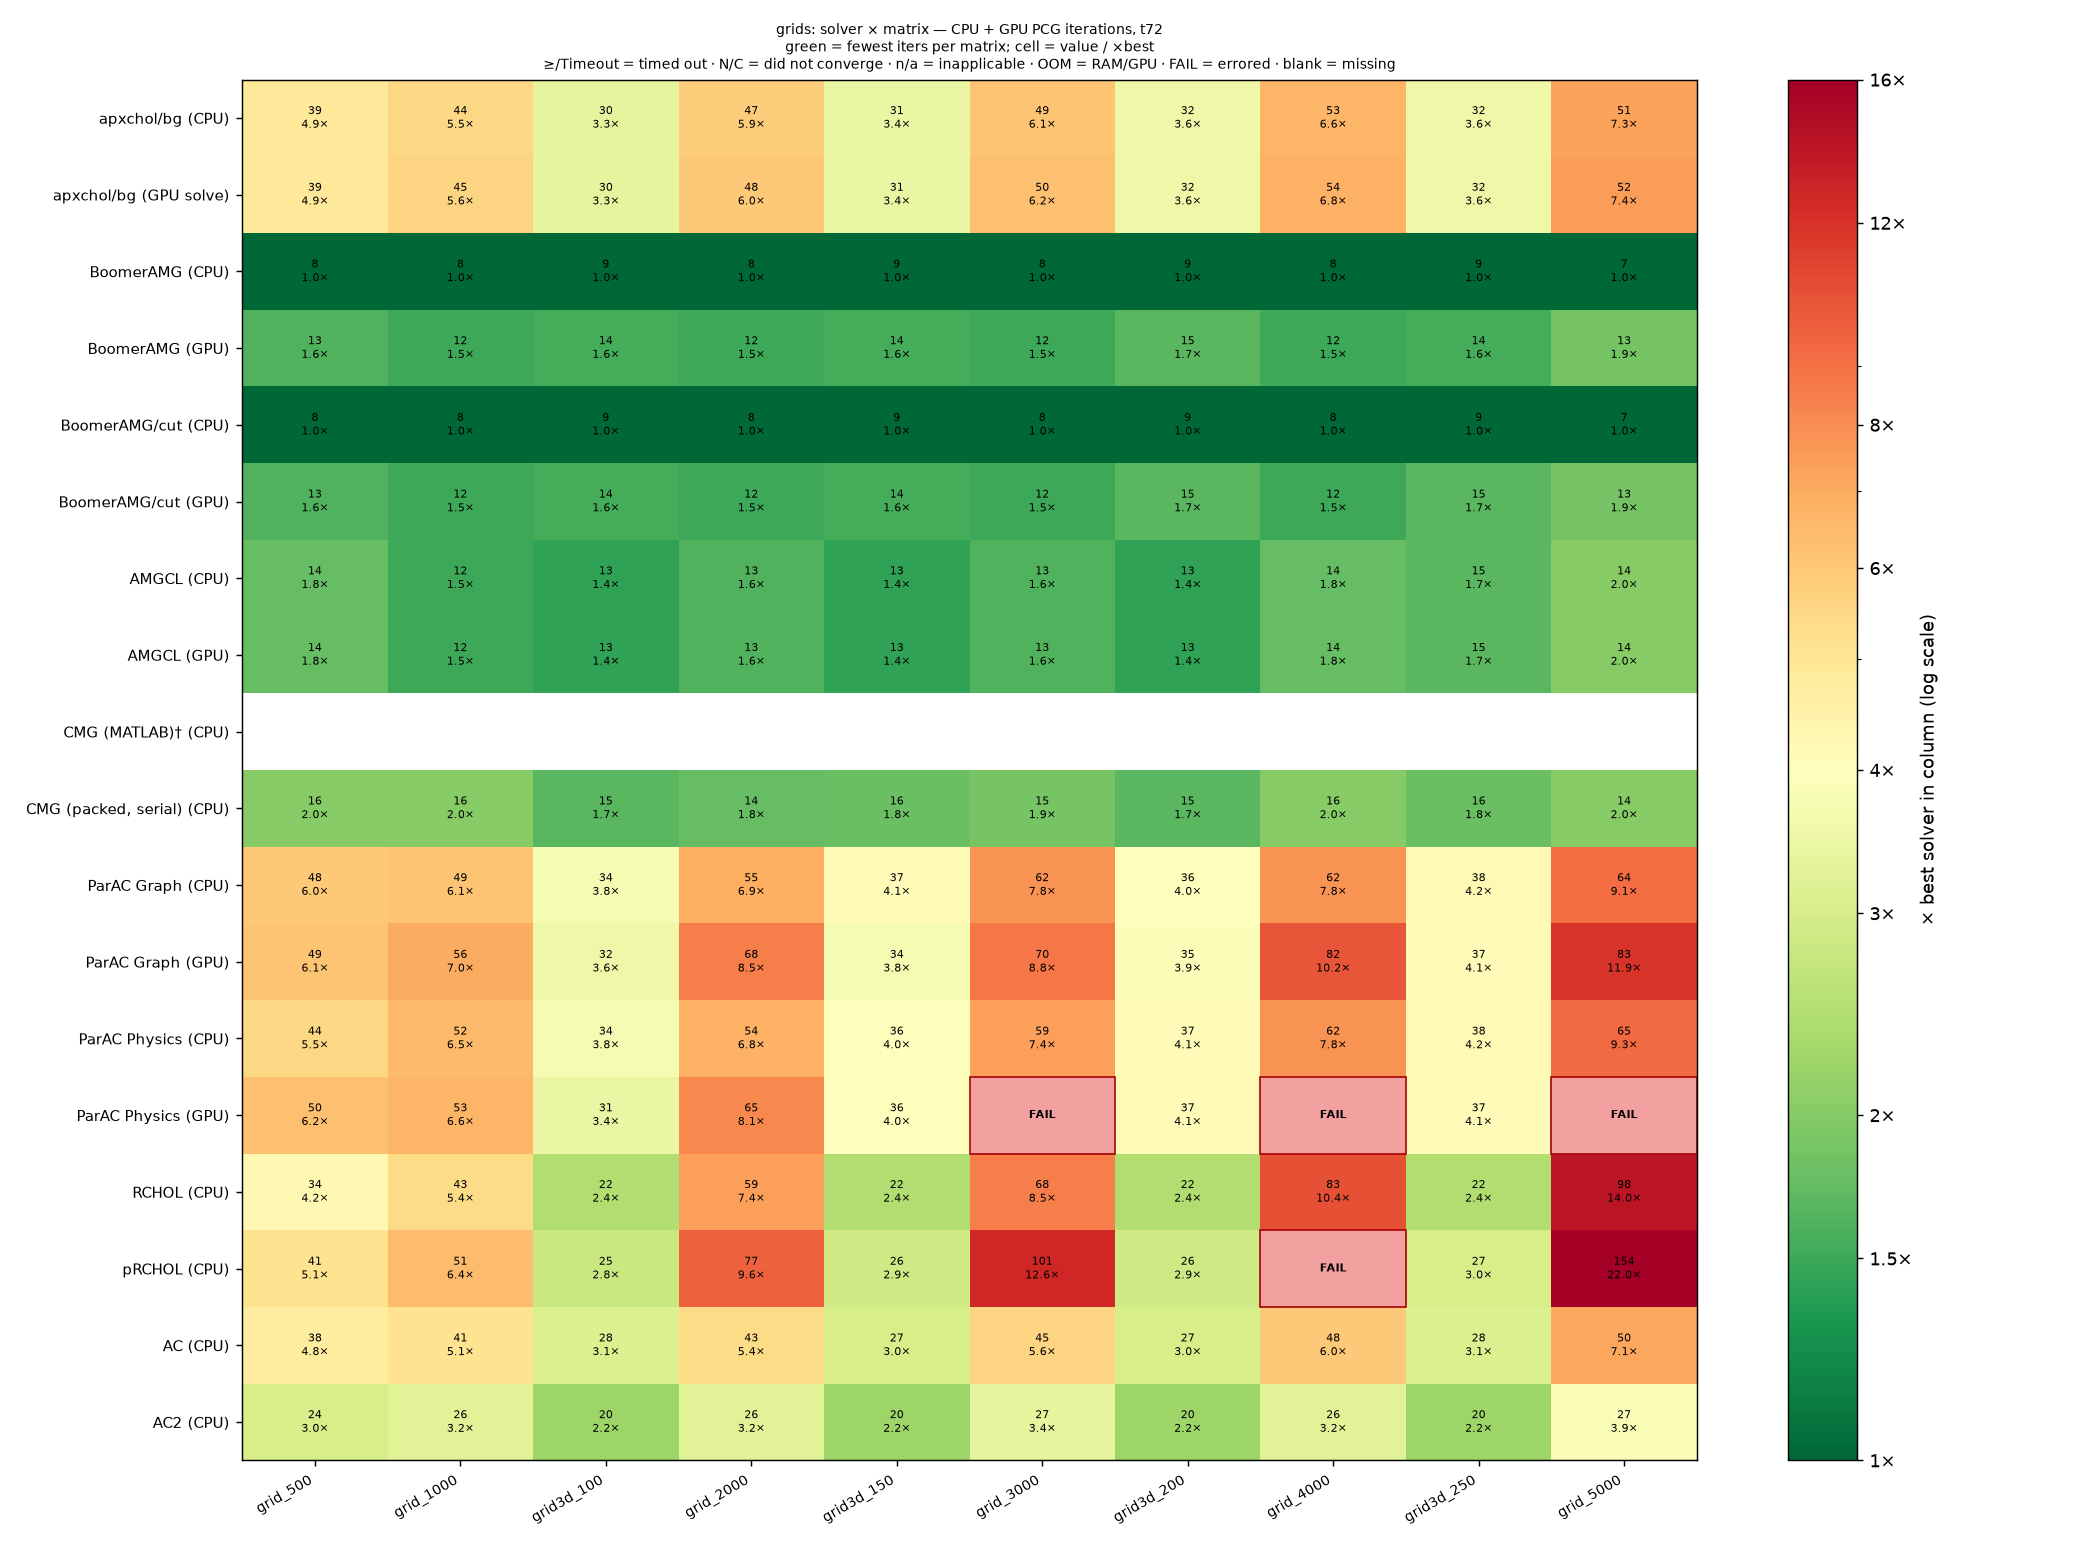
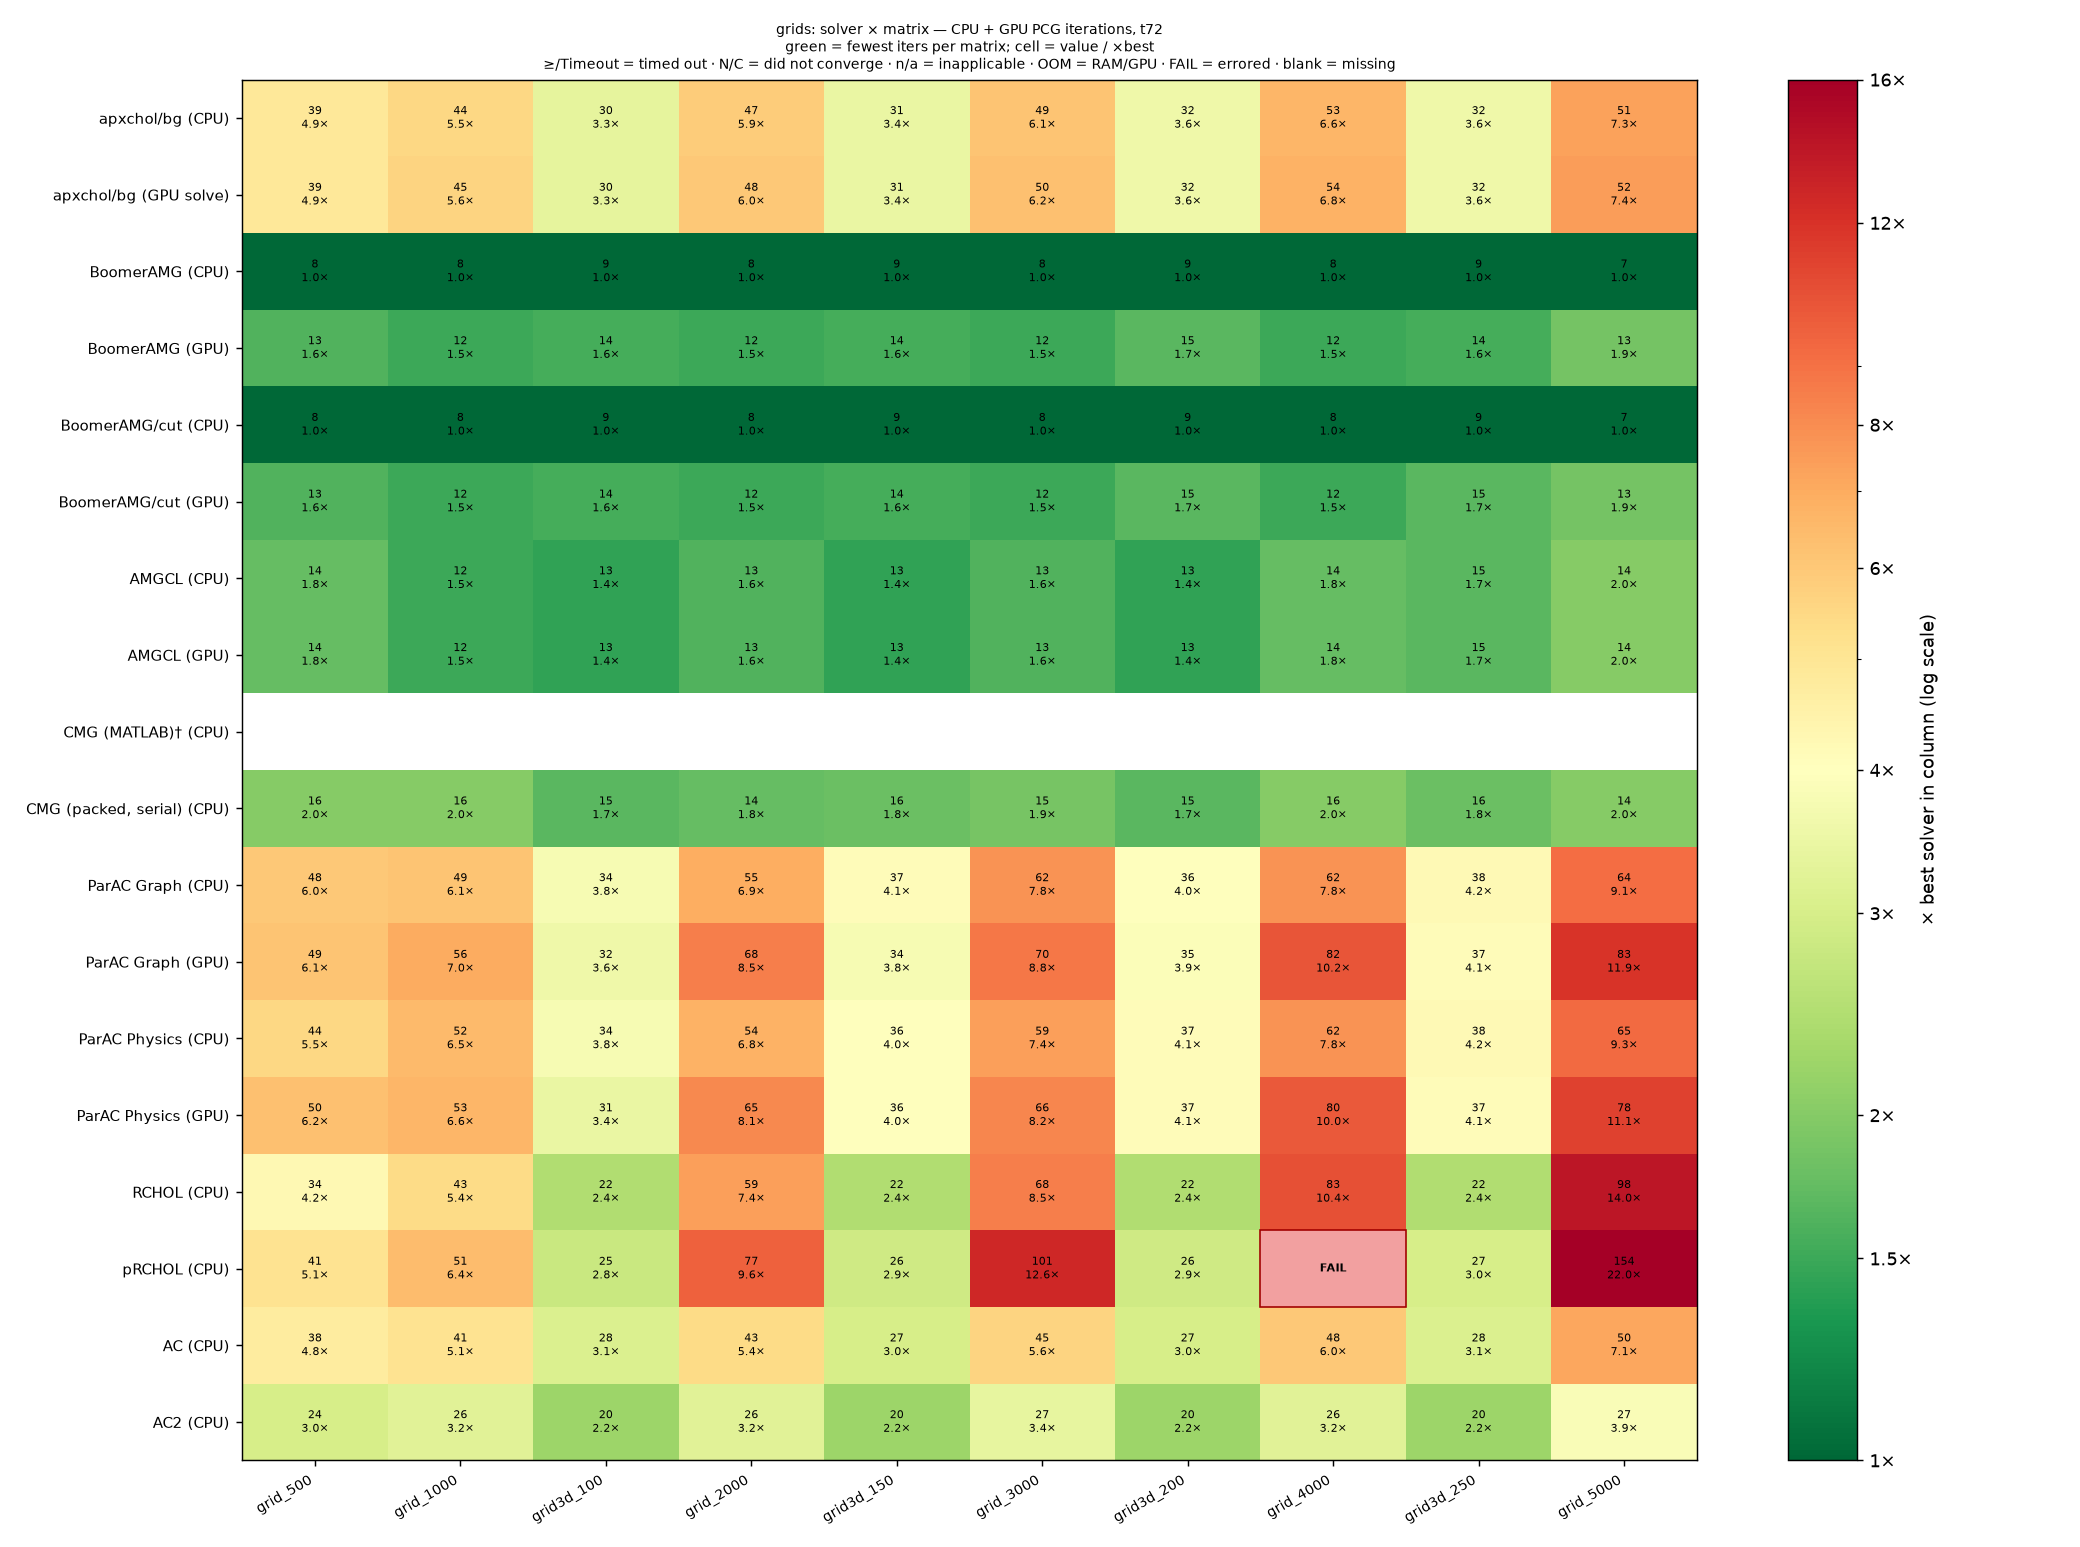
Refresh three repaired ParAC Physics results on Daint

Changed region(s): [[0.7188, 0.6826, 0.8438, 0.7447], [0.5938, 0.6826, 0.6875, 0.7447], [0.4688, 0.6826, 0.5625, 0.7447]]

diff --git a/benchmarks/patches/parac/README.md b/benchmarks/patches/parac/README.md
@@ -5,8 +5,8 @@ Pinned at `44ef39d2f5c2c52aa577f58f005d62f2675cefbc`
 ("Update data README for graph matrix downloads", 2026-04-24).
 
 The benchmark runs ParAC from an out-of-tree checkout (`PARAC_CPU_DRIVER` /
-`benchmarks/paths_local.py`). **Four** benchmark-only patches are applied (the
-last two touch only the CUDA drivers). Everything else we
+`benchmarks/paths_local.py`). **Five** benchmark patches are applied (0003/0004 touch only CUDA
+drivers; 0005 corrects the Physics producer global reduction). Everything else we
 need — the AMD reorder, the physics augmentation, the local build flags, the
 independent residual check — lives in this repo, so the ParAC checkout stays at
 upstream plus a small reviewable patch stack.
@@ -18,6 +18,7 @@ patch -p1 < $APXCHOL/benchmarks/patches/parac/0001-configurable-tolerance-and-an
 patch -p1 < $APXCHOL/benchmarks/patches/parac/0002-report-complete-setup-boundaries.patch
 patch -p1 < $APXCHOL/benchmarks/patches/parac/0003-report-complete-gpu-boundaries.patch
 patch -p1 < $APXCHOL/benchmarks/patches/parac/0004-report-cuda-init-separately.patch
+patch -p1 < $APXCHOL/benchmarks/patches/parac/0005-compensate-physics-global-sum.patch
 bash $APXCHOL/benchmarks/parac_build.sh            # builds experiment/driver
 ```
 
@@ -399,3 +400,32 @@ into their tree.
 **Moved out of their tree** to `benchmarks/parac_build.sh` and
 `benchmarks/parac_reorder_amd.jl`. Our preprocessing and our build recipe are
 ours to own.
+
+## 0005 — compensated Physics global reduction
+
+The Physics producer sums the represented matrix entries to choose its existing
+±1e-9 validation/augmentation branches. Plain summation after permutation
+erroneously crossed the negative threshold on grid_3000/4000/5000. Diagnostic
+job 4616696 established exact represented sums of 4.68445e-14/6.24570e-14/7.80695e-14,
+while the old sums were approximately -2.57e-9/-3.86e-9/-9.66e-9.
+
+Neumaier compensation corrects this global reduction. Both thresholds, individual
+rows, ordering, per-column sums and graph sampling remain unchanged. Avoid
+fast-math/SIMD reassociation in its error-recovery expressions. This does not
+claim to fix every non-diagonally-dominant input or change the original solver
+operator/RHS. It is a producer numerical fix, not only a timing label.
+
+Repair job 4616880 reran the three Physics GPU cases: all 15 native/calibration
+calls completed and all 12 graded warmup/retained solutions passed 1e-8 against
+the original A,b. The exact diagnostic classification, permutation and original
+system bytes were checked before native execution; full preparation remained
+charged. The updated benchmark selection records the measured producer SHA
[1 lines of base64/hex data omitted]
+and experimental patch SHA
[1 lines of base64/hex data omitted]
+
+The maintained 0005 patch carries the identical helper/replacement, with paths
+and context adapted to pinned upstream 44ef39d2; its patch SHA therefore differs.
+Fresh CMake FetchContent checkouts apply it after 0004. Existing external
+checkouts must apply it explicitly; the manual build script checks for the
+compensated call. Historical prepared caches are not retroactively relabelled.

diff --git a/benchmarks/daint/README.md b/benchmarks/daint/README.md
@@ -22,7 +22,7 @@ Heatmap colours normalize within each matrix column; they do not compare absolut
 
 The 2D grids have a coefficient jump from 1 to 0.01. The 3D grids have unit weights. Native CMG is labelled as a serial packed implementation; canonical MATLAB CMG and serial Julia reference solvers retain their own labels and timing boundaries.
 
-Status counts: complete: 423, failed: 17, n/a: 6, not_converged: 7, timeout: 6.
+Status counts: complete: 426, failed: 14, n/a: 6, not_converged: 7, timeout: 6.
 
 [Platform-specific availability and exceptions](PLATFORM.md)
 
@@ -57,9 +57,9 @@ Status counts: complete: 423, failed: 17, n/a: 6, not_converged: 7, timeout: 6.
 ## Snapshot provenance
 
 This refresh selects 459/486 headline identities from the audited 2026-09-07
-selection: 423 complete, 17 failed, 7 nonconverged, 6 timeout and 6 recorded n/a.
-All 108 ParAC Graph/Physics CPU/GPU identities are represented (103 complete,
-5 failed). The 27 remaining numerical gaps are canonical MATLAB CMG platform
+selection: 426 complete, 14 failed, 7 nonconverged, 6 timeout and 6 recorded n/a.
+All 108 ParAC Graph/Physics CPU/GPU identities are represented (106 complete,
+2 failed). The 27 remaining numerical gaps are canonical MATLAB CMG platform
 exceptions; packed native CMG has its own 27 recorded cells. Corrected Eigen
 ordering replaces four RCHOL results, preserving the as-Skitter nonconvergence.
 
@@ -74,3 +74,10 @@ Regenerate from the matching selected raw-cell stores with
 --platform Daint --scaling-store SCALING --scaling-matrices MATRICES
 --scaling-threads 1,2,4,8,16,36,72`. The committed CSVs are presentation extracts;
 archived historical renderers remain linked separately.
+
+Three Physics GPU grid outcomes were refreshed after the compensated global-sum
+producer repair (job 4616880): grid_3000/4000/5000 now pass all warmup/retained
+original-system residual checks. Full timed preparation remains in setup;
+common input loading remains outside that interval. The two G3_circuit Graph
+calibration failures remain unchanged. The maintained producer correction is
+[ParAC patch 0005](../patches/parac/README.md#0005--compensated-physics-global-reduction).

diff --git a/AGENTS.md b/AGENTS.md
@@ -181,6 +181,10 @@ hashes accompany snapshots; rendering does not run benchmarks.
 Do not wrap timed C++ or ParAC calls in `VramSampler`: nvidia-smi polling
 perturbs GH200 setup. Collect peak VRAM in separate diagnostic runs; missing
 peak measurements stay unknown.
+ParAC patch 0005 uses Neumaier compensation for the Physics producer global
+sum; retain both existing ±1e-9 thresholds and preserve ordering/per-column
+sums. Fresh FetchContent checkouts apply it; external checkouts need the patch
+before rebuilding. Regenerated cells retain original-A,b residual checks.
 
 Read [benchmarks/README.md](benchmarks/README.md) for the actual runner and
 solver contracts. Use the existing runner/parser where it fits; do not make
